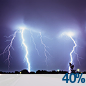
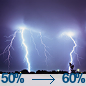
wire: 2026-10-01 RSA-1001-WIRE-92 + first sports/weather siblings

diff --git a/wire.html b/wire.html
@@ -12,8 +12,8 @@
   <meta property="og:description" content="National, global, and tech briefing for citizens and pastors. Civic week lives on RESOLUTE Local. Sports and weather have their own pages.">
   <meta property="og:type" content="website">
   <meta property="og:url" content="https://usmcmin.com/wire.html">
-  <meta property="og:image" content="https://usmcmin.com/assets/og/wire-dvids-9970026-kc135-atlantic-thunder-1200x630.jpg">
-  <meta name="twitter:image" content="https://usmcmin.com/assets/og/wire-dvids-9970026-kc135-atlantic-thunder-1200x630.jpg">
+  <meta property="og:image" content="https://usmcmin.com/assets/og/wire-dvids-9978274-new-orleans-change-of-command-1200x630.jpg">
+  <meta name="twitter:image" content="https://usmcmin.com/assets/og/wire-dvids-9978274-new-orleans-change-of-command-1200x630.jpg">
   <meta property="og:image:width" content="1200">
   <meta property="og:image:height" content="630">
   <meta name="twitter:image:width" content="1200">
@@ -129,18 +129,18 @@
     <header class="mast" id="top">
       <h1>RESOLUTE <em>Wire</em></h1>
       <p class="dek">National, global, and tech briefing for citizens and pastors. Civic week lives on RESOLUTE Local. Sports and weather have their own pages.</p>
-      <div class="meta">Wednesday, September 30, 2026 · PM edition · Rush Sullivan · RSA-0930-WIRE-91</div>
+      <div class="meta">Thursday, October 1, 2026 · AM edition · Rush Sullivan · RSA-1001-WIRE-92</div>
     </header>
     <article class="hero">
       <div class="hero-media">
-        <img src="assets/wire/dvids-9970026-kc135-atlantic-thunder-1000w.jpg" alt="">
-        <div class="hero-credit">Senior Airman Aidan Martínez Rosiere · DVIDS 9970026 · Public domain · Airmen of the 100th Air Refueling Wing pose with a KC-135 at RAF Mildenhall, England, before an Atlantic Thunder tanker mission, Sept. 21, 2026.</div>
+        <img src="assets/wire/dvids-9978274-new-orleans-change-of-command-1000w.jpg" alt="">
+        <div class="hero-credit">Mass Communication Specialist 2nd Class Julia Leon · DVIDS 9978274 · Public domain · Capt. Steven Zielechowski salutes Capt. Timothy Carter after assuming command of USS New Orleans in Sasebo, Japan, Oct. 1, 2026.</div>
       </div>
       <div class="hero-body">
-        <span class="chip">DVIDS / U.S. Naval Forces Europe-Africa</span>
-        <h2><a href="https://www.dvidshub.net/news/575850/exercise-atlantic-thunder-2026-concludes-united-kingdom" target="_blank" rel="noopener">U.S. and British forces sank the retired frigate Klakring in the North Atlantic</a></h2>
-        <p class="insight">U.S. 6th Fleet said Wednesday that Exercise Atlantic Thunder ended Sept. 25 with the sinking of the decommissioned guided-missile frigate ex-USS Klakring. USS Paul Ignatius fired an anti-surface Standard Missile-6. USS Massachusetts, a newly commissioned Virginia-class submarine, finished the ship with a Mk 48 torpedo. The Royal Navy fired its Naval Strike Missile and Sea Venom. U.S. Air Force F-15Es and P-8 patrol planes also took part. The frigate entered service in 1983 and left it in 2013. Official still is a KC-135 crew at RAF Mildenhall on Sept. 21, before a tanker mission in the same exercise, not the sinking itself.</p>
-        <div class="src">DVIDS / U.S. Naval Forces Europe-Africa · <a href="https://www.dvidshub.net/news/575850/exercise-atlantic-thunder-2026-concludes-united-kingdom" target="_blank" rel="noopener">Read source →</a></div>
+        <span class="chip">DVIDS / U.S. Navy</span>
+        <h2><a href="https://www.dvidshub.net/news/576101/uss-new-orleans-lpd-18-change-command" target="_blank" rel="noopener">USS New Orleans changed commanding officers in Sasebo</a></h2>
+        <p class="insight">The Navy said Thursday that Capt. Kevin Dean turned over the San Antonio-class amphibious transport dock USS New Orleans to Capt. Steven Zielechowski on the ship&#x27;s flight deck in Sasebo. Dean had the ship since Dec. 30, 2024, through a seven-month patrol that included Iron Fist with Japan&#x27;s Maritime Self-Defense Force plus Operations Epic Fury and Ernest Tide. Zielechowski had been deputy commander of Naval Surface Group Western Pacific and officer in charge of the Sasebo detachment. New Orleans is part of the Tripoli Amphibious Readiness Group, forward deployed with 7th Fleet. A change of command, not a new deployment order.</p>
+        <div class="src">DVIDS / U.S. Navy · <a href="https://www.dvidshub.net/news/576101/uss-new-orleans-lpd-18-change-command" target="_blank" rel="noopener">Read source →</a></div>
       </div>
     </article>
     <section class="rails" aria-label="Channel rails">
@@ -148,17 +148,17 @@
         <h3>Political</h3>
         <article class="item no-media">
           <div>
-            <h4><a href="https://www.dvidshub.net/news/575945/five-defense-companies-selected-develop-precision-strike-missile-increment-4-prototypes" target="_blank" rel="noopener">The Army picked five companies to prototype a longer-range strike missile</a></h4>
-            <p>Redstone Arsenal said the Army signed five Other Transaction Authority agreements on Sept. 29 for Precision Strike Missile Increment 4 prototypes. The companies are Anduril, Castelion, Lockheed Martin, Mach Industries, and RTX. Each missile must launch from a HIMARS truck and hit moving ships or land targets at 1,000 kilometers or more. The Army plans a competitive fly-off in fiscal 2027 and a final fly-off in fiscal 2028. A prototype race, not a production buy. Defense News reported the same release Wednesday.</p>
-            <div class="who">DVIDS / U.S. Army</div>
+            <h4><a href="https://www.dvidshub.net/news/576089/uss-robert-smalls-departs-japan-homeport-change-san-diego" target="_blank" rel="noopener">The cruiser Robert Smalls left Japan for San Diego, the last cruiser on that station</a></h4>
+            <p>U.S. 7th Fleet said Wednesday that the Ticonderoga-class cruiser USS Robert Smalls left Yokosuka for a permanent homeport change to San Diego. Rear Adm. Jeffrey L. Heames, commander of Carrier Strike Group 5, said she is the last cruiser to leave Japan. The ship arrived in 2015 as USS Chancellorsville and was renamed Robert Smalls in 2023. Arleigh Burke-class destroyer USS Mustin replaces her. A homeport shift, not a decommissioning.</p>
+            <div class="who">DVIDS / U.S. Navy</div>
           </div>
           
         </article>
         <article class="item no-media">
           <div>
-            <h4><a href="https://www.hii.com/news/hii-is-awarded-contract-to-execute-uss-harry-s-truman-cvn-75-refueling-and-complex-overhaul" target="_blank" rel="noopener">HII won a $5.1 billion overhaul of the carrier Harry S. Truman</a></h4>
-            <p>HII said Tuesday that Newport News Shipbuilding received a $5,099,973,132 contract to refuel and overhaul USS Harry S. Truman. Options, if taken, raise the total to $5,183,380,744. The yard will refuel the reactors and modernize propulsion and combat systems. The work is meant to carry the ship through the second half of its service life. Defense News reported the award Wednesday. A contract notice, not a sailing date.</p>
-            <div class="who">HII</div>
+            <h4><a href="https://www.dvidshub.net/news/576100/us-marines-support-european-led-nato-security-initiative-baltic-sea" target="_blank" rel="noopener">About four dozen Camp Lejeune Marines will join NATO&#x27;s Baltic Sentry</a></h4>
+            <p>U.S. Marine Corps Forces Europe and Africa said Thursday that a team already in Europe will be retasked to the Baltic Sea for the NATO-led Enhanced Vigilance Activity Baltic Sentry. About four dozen Marines from 2nd Reconnaissance Battalion and II Marine Expeditionary Force Information Group, both at Camp Lejeune, will work with Finland&#x27;s Coastal Brigade on expeditionary surveillance and reconnaissance aimed at undersea infrastructure. Maj. Gen. Daniel Shipley said the Marines are in a supporting role under Allied Joint Force Command Brunssum. A tasking, not a new deployment order from the United States.</p>
+            <div class="who">DVIDS / U.S. Marine Corps</div>
           </div>
           
         </article>
@@ -167,8 +167,8 @@
         <h3>Tech / AI</h3>
         <article class="item no-media">
           <div>
-            <h4><a href="https://lawliberty.org/the-patron-saint-of-freedom/" target="_blank" rel="noopener">An essay says Fulton Sheen belongs with the friends of political freedom</a></h4>
-            <p>Law &amp; Liberty, Wednesday: the essay marks the Catholic Church’s beatification of Archbishop Fulton J. Sheen on Sept. 24, the last step before canonization. The writer says Sheen’s radio and television work, including the 1950s program Life Is Worth Living, made hard ideas accessible, and that readers who are not Catholic should still weigh what he argued for political freedom. Essay, not a Vatican decree and not a vote.</p>
+            <h4><a href="https://lawliberty.org/a-new-fiscal-years-resolution/" target="_blank" rel="noopener">An essay says the new fiscal year inherits a debt past $40 trillion</a></h4>
+            <p>Law &amp; Liberty, Thursday: the fiscal year that began today inherits last year&#x27;s commitments. The essay says gross federal debt passed $40 trillion during fiscal 2026, that the 10-year Treasury yield hit 5 percent in the final weeks of that year, and that the Congressional Budget Office projects annual net interest costs rising from $1 trillion in fiscal 2026 to $2.1 trillion in fiscal 2036. Those payments service old borrowing. An essay, not a Treasury release and not a floor vote.</p>
             <div class="who">Law &amp; Liberty</div>
           </div>
           
@@ -178,8 +178,8 @@
         <h3>Culture</h3>
         <article class="item no-media">
           <div>
-            <h4><a href="https://firstthings.com/henry-hyde-a-pro-life-hero/" target="_blank" rel="noopener">First Things marks fifty years of the Hyde Amendment</a></h4>
-            <p>First Things, Wednesday: in 1976, freshman Rep. Henry Hyde of Illinois attached one sentence to a health appropriations bill barring those funds from paying for abortions except where the mother’s life was in danger. The magazine says that rider became law fifty years ago today and calls it the most consequential legislation in the pro-life movement. An anniversary essay, not a new floor vote.</p>
+            <h4><a href="https://firstthings.com/the-left-is-right-about-the-bible/" target="_blank" rel="noopener">First Things says Texas put short Bible passages on the required school list</a></h4>
+            <p>First Things, Thursday: the Texas State Board of Education approved a required K-12 reading list that includes a short Bible passage or two in each grade, mixed with longer works such as Hamlet and Pride and Prejudice. The magazine notes the national coverage that followed and argues the objection treats Scripture as the one text public schools may not assign. An essay on a state board action, not a new statute.</p>
             <div class="who">First Things</div>
           </div>
           
@@ -196,7 +196,7 @@
     </section>
     <section class="watch">
       <h3>Watch</h3>
-      <ul><li><a href="https://www.defensenews.com/news/your-military/2026/09/30/operation-atlantic-city-ushers-marines-on-rare-trip-to-remote-arctic-island/" target="_blank" rel="noopener">Marines trained on Jan Mayen with Norwegian and British troops from Aug. 26 to Sept. 4</a> </li><li><a href="https://www.defensenews.com/news/pentagon-congress/2026/09/30/white-house-nominates-next-general-to-helm-us-space-command/" target="_blank" rel="noopener">The White House nominated Lt. Gen. David N. Miller Jr. to lead U.S. Space Command</a> </li></ul>
+      <ul><li><a href="https://lawliberty.org/forum/god-man-and-academic-freedom/" target="_blank" rel="noopener">Robert George answers a Law &amp; Liberty forum on God, man, and academic freedom</a> </li><li><a href="https://www.thepublicdiscourse.com/2026/09/102008/" target="_blank" rel="noopener">Public Discourse published the winning Fidelity Month high-school essay on liberty and the founding</a> </li></ul>
     </section>
     <section class="dock">
       <a href="sports.html"><div class="k">Texas desk</div><div class="t">Sports</div><div class="d">Texans, Astros, Rockets — character and the score.</div></a>

diff --git a/weather.html b/weather.html
@@ -125,7 +125,7 @@
     <header class="mast" id="top">
       <h1>RESOLUTE <em>Weather</em></h1>
       <p class="dek">Fredericksburg, Virginia — National Weather Service. Readiness, not climate talk.</p>
-      <div class="meta">Wednesday, September 30, 2026 · PM edition</div>
+      <div class="meta">Thursday, October 1, 2026 · AM edition</div>
     </header>
     <article class="hero">
       <div class="hero-media">
@@ -134,15 +134,15 @@
       </div>
       <div class="hero-body">
         <span class="chip">NWS / Readiness</span>
-        <h2>No active watches. Mostly sunny this afternoon, high near 82.</h2>
-        <p class="insight">NWS has no active watches or warnings on the Fredericksburg point. This afternoon: mostly sunny, high near 82, south wind around 5 mph. Tonight: mostly cloudy, low around 62. Thursday: sunny, high near 87. Friday night: a 30 percent chance of rain showers after 8 p.m.</p>
+        <h2>No active watches. Mostly sunny today, high near 86.</h2>
+        <p class="insight">NWS has no active watches or warnings on the Fredericksburg point. Today: mostly sunny, high near 86, southwest wind 2 to 7 mph. Tonight: mostly clear, low around 64. Friday night: showers and thunderstorms likely, a 60 percent chance. Saturday: rain showers likely, high near 68.</p>
         <div class="src">Alerts: No watch or warning is up. · <a href="https://forecast.weather.gov/MapClick.php?lat=38.3032&amp;lon=-77.4605" target="_blank" rel="noopener">NWS forecast →</a></div>
-        <ul class="actions"><li>No active watches or warnings</li><li>Mostly sunny this afternoon, high near 82</li><li>Friday night: 30 percent chance of showers after 8 p.m.</li></ul>
+        <ul class="actions"><li>No active watches or warnings</li><li>Mostly sunny today, high near 86</li><li>Friday night: storms likely, 60 percent chance</li></ul>
       </div>
     </article>
     <section class="watch">
       <h3>Forecast</h3>
-      <div class="period"><img class="period-icon" src="assets/weather/nws-this-afternoon-day-sct.png" alt=""><div><strong>This Afternoon</strong><p class="insight">Mostly sunny, with a high near 82. South wind around 5 mph.</p></div></div><div class="period"><img class="period-icon" src="assets/weather/nws-tonight-night-bkn.png" alt=""><div><strong>Tonight</strong><p class="insight">Mostly cloudy, with a low around 62. South wind around 5 mph.</p></div></div><div class="period"><img class="period-icon" src="assets/weather/nws-thursday-day-few.png" alt=""><div><strong>Thursday</strong><p class="insight">Sunny, with a high near 87. Southwest wind 3 to 9 mph.</p></div></div><div class="period"><img class="period-icon" src="assets/weather/nws-thursday-night-night-sct.png" alt=""><div><strong>Thursday Night</strong><p class="insight">Partly cloudy, with a low around 65. South wind 5 to 8 mph.</p></div></div><div class="period"><img class="period-icon" src="assets/weather/nws-friday-day-few.png" alt=""><div><strong>Friday</strong><p class="insight">Sunny, with a high near 89. Southwest wind 5 to 10 mph.</p></div></div><div class="period"><img class="period-icon" src="assets/weather/nws-friday-night-night-rain.png" alt=""><div><strong>Friday Night</strong><p class="insight">A chance of rain showers after 8pm. Mostly cloudy, with a low around 61. Chance of precipitation is 30%.</p></div></div>
+      <div class="period"><img class="period-icon" src="assets/weather/nws-today-day-sct.png" alt=""><div><strong>Today</strong><p class="insight">Mostly sunny, with a high near 86. Southwest wind 2 to 7 mph.</p></div></div><div class="period"><img class="period-icon" src="assets/weather/nws-tonight-night-few.png" alt=""><div><strong>Tonight</strong><p class="insight">Mostly clear, with a low around 64. South wind around 5 mph.</p></div></div><div class="period"><img class="period-icon" src="assets/weather/nws-friday-day-sct.png" alt=""><div><strong>Friday</strong><p class="insight">Mostly sunny, with a high near 89. Southwest wind around 7 mph. New rainfall amounts less than a tenth of an inch possible.</p></div></div><div class="period"><img class="period-icon" src="assets/weather/nws-friday-night-night-tsra.png" alt=""><div><strong>Friday Night</strong><p class="insight">A chance of rain showers before 8pm, then showers and thunderstorms likely. Mostly cloudy, with a low around 60. Northwest wind 3 to 8 mph. Chance of precipitation is 60%. New rainfall amounts between a tenth and quarter of an inch possible.</p></div></div><div class="period"><img class="period-icon" src="assets/weather/nws-saturday-day-rain.png" alt=""><div><strong>Saturday</strong><p class="insight">Rain showers likely. Mostly cloudy, with a high near 68. North wind 5 to 8 mph. Chance of precipitation is 60%.</p></div></div><div class="period"><img class="period-icon" src="assets/weather/nws-saturday-night-night-tsra.png" alt=""><div><strong>Saturday Night</strong><p class="insight">A chance of rain showers before 2am, then showers and thunderstorms likely. Mostly cloudy, with a low around 57. Chance of precipitation is 60%.</p></div></div>
       
     </section>
     <section class="dock">

diff --git a/sports.html b/sports.html
@@ -125,16 +125,16 @@
     <header class="mast" id="top">
       <h1>RESOLUTE <em>Sports</em></h1>
       <p class="dek">Texas desk — Texans, Astros, Rockets. Character and the score, not celebrity.</p>
-      <div class="meta">Wednesday, September 30, 2026 · PM edition</div>
+      <div class="meta">Thursday, October 1, 2026 · AM edition</div>
     </header>
     <article class="hero">
       <div class="hero-media">
-        <img src="assets/sports/daikin-minute-maid-2010.jpg" alt="Daikin Park — Astros host Wild Card Game 2 tonight">
+        <img src="assets/sports/daikin-minute-maid-2010.jpg" alt="Daikin Park — White Sox closed the series here Wednesday">
         <div class="hero-credit">Minute Maid Park, 2010 offseason. Wikimedia Commons, CC BY 3.0. Photo: Delaywaves.</div>
       </div>
       <div class="hero-body">
         <span class="chip">Venue still</span>
-        <h2>Daikin Park — Astros host Wild Card Game 2 tonight</h2>
+        <h2>Daikin Park — White Sox closed the series here Wednesday</h2>
         <p class="insight">Wikimedia Commons venue stills. Not league game photography.</p>
       </div>
     </article>
@@ -143,8 +143,8 @@
         <h3>Texas first</h3>
         <article class="item">
           <div>
-            <h4><a href="https://www.mlb.com/astros/schedule" target="_blank" rel="noopener">White Sox lead the series 1-0; Game 2 is tonight at Daikin Park</a></h4>
-            <p>League schedule, checked at 4:21 p.m. ET: Chicago beat Houston 6-3 on Tuesday in AL Wild Card Game 1, a nine-inning final at Daikin Park. Game 2 is at Daikin Park today, first pitch 5 p.m. ET. Status was still pre-game. No Wednesday final. The series is best of three.</p>
+            <h4><a href="https://www.mlb.com/astros/schedule" target="_blank" rel="noopener">White Sox swept the Astros, 2-0, and Houston&#x27;s season is over</a></h4>
+            <p>League schedule, checked at 7:41 a.m. ET: Chicago beat Houston 7-3 on Wednesday in AL Wild Card Game 2, a nine-inning final at Daikin Park. That closed the best-of-three series, 2-0. Game 1 on Tuesday was 6-3, also nine innings at Daikin Park. No Astros game Thursday.</p>
             <div class="who">MLB.com / Houston Astros</div>
           </div>
           <div class="thumb"><img src="assets/sports/daikin-minute-maid-2010.jpg" alt=""></div>
@@ -152,15 +152,15 @@
         <article class="item">
           <div>
             <h4><a href="https://www.houstontexans.com/schedule/" target="_blank" rel="noopener">Texans are off until Sunday, when Dallas comes to Houston</a></h4>
-            <p>Club schedule: no Texans game Wednesday. Houston played Sunday at Indianapolis and next hosts Dallas on Sunday, Oct. 4, noon CT, Week 4, at home.</p>
+            <p>Club schedule: no Texans game Thursday. Houston played Sunday at Indianapolis and next hosts Dallas on Sunday, Oct. 4, noon CT, Week 4, at home.</p>
             <div class="who">Houston Texans / NFL</div>
           </div>
           <div class="thumb"><img src="assets/sports/nrg-reliant-interior.jpg" alt=""></div>
         </article>
         <article class="item">
           <div>
-            <h4><a href="https://www.nba.com/news/key-dates" target="_blank" rel="noopener">Rockets training camp is open; the first preseason games are in Macao</a></h4>
-            <p>NBA.com key dates, updated Sept. 26: training camps opened Sept. 29. Preseason games begin Oct. 3. Houston meets Dallas at The Venetian Arena in Macao on Oct. 9 and Oct. 11. No NBA game today.</p>
+            <h4><a href="https://www.nba.com/news/key-dates" target="_blank" rel="noopener">Rockets open preseason Friday; Houston&#x27;s first games are in Macao</a></h4>
+            <p>NBA.com key dates, updated Oct. 1: preseason games begin Oct. 3. Houston meets Dallas at The Venetian Arena in Macao on Oct. 9 and Oct. 11. No Rockets game Thursday.</p>
             <div class="who">NBA.com</div>
           </div>
           <div class="thumb"><img src="assets/sports/toyota-center-interior.jpg" alt=""></div>
